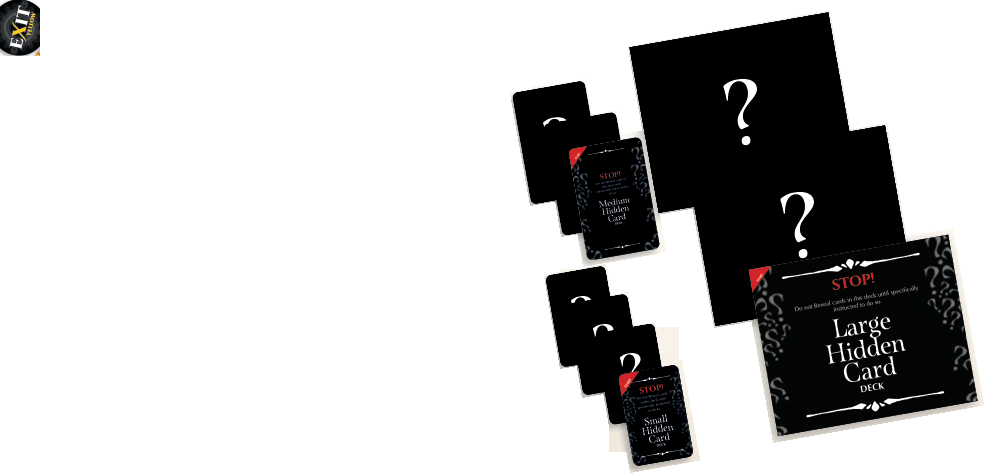
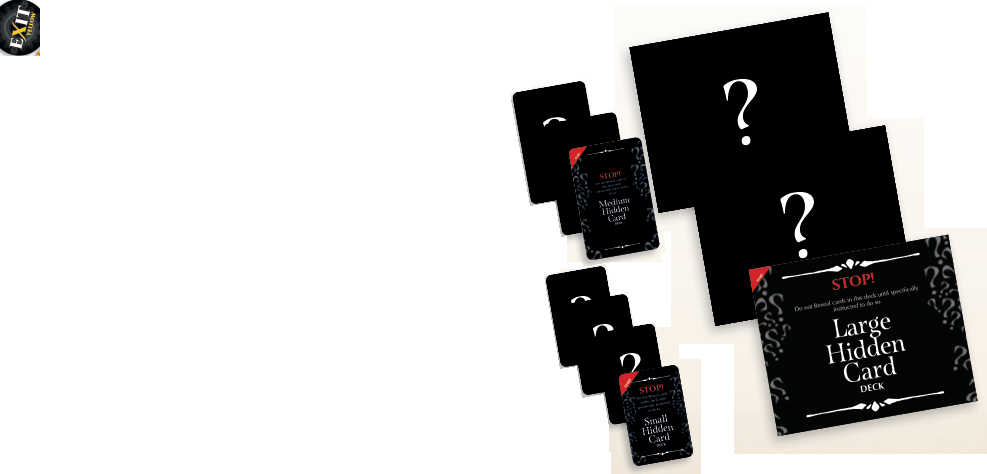
fix: remove residual card backings on page 6

diff --git a/scripts/build_page_006_card_overlay.py b/scripts/build_page_006_card_overlay.py
@@ -1,8 +1,9 @@
 """Build the page 6 English fidelity patch from the source PDF.
 
 This restores PDF-rendered card pixels over the viewer's imperfect image/text
-recomposition. The mask is constrained to embedded image placements and known
-card-label blocks; it must not be generalized to other pages without a new QA.
+recomposition. The mask is constrained to embedded image placements, audited
+card-label blocks, and five confirmed vector backings; do not generalize it to
+other pages without a new visual audit.
 """
 
 from __future__ import annotations
@@ -27,6 +28,19 @@ SIDECAR_PATH = PAGE_DIR / "fidelity_overlays.json"
 # excluded by the maximum rectangle area.
 CARD_REGION_PT = (545.0, 185.0, 795.0, 420.0)
 MAX_IMAGE_AREA_PT2 = 16_000.0
+# White-filled vector backings left visible in the extracted background even
+# though the source PDF's final composition covers them with card artwork.
+# Keep these two confirmed paths local to this audited card group.
+CARD_VECTOR_BACKING_BBOXES_PT = (
+    (586.34, 253.64, 630.42, 313.20),
+    (607.79, 360.89, 649.12, 414.64),
+)
+CARD_DARK_BACKING_BBOXES_PT = (
+    (609.00, 191.10, 728.90, 298.00),
+    (636.20, 245.30, 756.10, 352.20),
+    (666.40, 298.00, 786.30, 404.90),
+)
+CARD_DARK_FILL = (0.13669031858444214, 0.12195010483264923, 0.1252918243408203)
 PATCHED_TEXT_BLOCK_IDS = {
     "block_10", "block_94", "block_95", "block_96", "block_98",
     "block_235", "block_239", "block_243", "block_250", "block_254",
@@ -76,6 +90,43 @@ def main() -> None:
             ]
             draw.polygon(corners, fill=255)
             placements += 1
+
+    vector_backings = []
+    for drawing in page.get_drawings():
+        fill = drawing.get("fill")
+        rect = drawing["rect"]
+        if fill is None or not all(abs(channel - 1.0) < 1e-6 for channel in fill):
+            continue
+        for expected in CARD_VECTOR_BACKING_BBOXES_PT:
+            if all(abs(actual - target) <= 0.05 for actual, target in zip(rect, expected)):
+                draw.rectangle(tuple(value * scale for value in expected), fill=255)
+                vector_backings.append(expected)
+
+    if len(vector_backings) != len(CARD_VECTOR_BACKING_BBOXES_PT):
+        raise ValueError(
+            f"Expected {len(CARD_VECTOR_BACKING_BBOXES_PT)} white vector backings, "
+            f"found {len(vector_backings)}"
+        )
+
+    dark_backings = []
+    for drawing in page.get_drawings():
+        fill = drawing.get("fill")
+        rect = drawing["rect"]
+        if fill is None or not all(
+            abs(channel - target) < 1e-5
+            for channel, target in zip(fill, CARD_DARK_FILL)
+        ):
+            continue
+        for expected in CARD_DARK_BACKING_BBOXES_PT:
+            if all(abs(actual - target) <= 0.05 for actual, target in zip(rect, expected)):
+                draw.rectangle(tuple(value * scale for value in expected), fill=255)
+                dark_backings.append(expected)
+
+    if len(dark_backings) != len(CARD_DARK_BACKING_BBOXES_PT):
+        raise ValueError(
+            f"Expected {len(CARD_DARK_BACKING_BBOXES_PT)} dark card backings, "
+            f"found {len(dark_backings)}"
+        )
 
     text_blocks = 0
     for block in page_data["blocks"]:
@@ -130,7 +181,9 @@ def main() -> None:
     )
     print(
         f"Wrote {OVERLAY_PATH} ({overlay.width}x{overlay.height}) and "
-        f"{SIDECAR_PATH}; PDF placements={placements}, text blocks={text_blocks}, "
+        f"{SIDECAR_PATH}; PDF placements={placements}, "
+        f"vector backings={len(vector_backings)}, "
+        f"dark backings={len(dark_backings)}, text blocks={text_blocks}, "
         f"bbox_pt={bbox_pt}"
     )
 

diff --git a/docs/project-progress/2026-10-01-page6-fullpage-visual-audit.md b/docs/project-progress/2026-10-01-page6-fullpage-visual-audit.md
@@ -1,0 +1,48 @@
+# Auditoria visual integral inglesa: página 6
+
+- **Status:** concluída em 2026-10-01; a página inteira e o patch de cartas foram comparados com o PDF em zoom de leitura.
+- **Data:** 2026-10-01.
+- **Ponto de partida:** checkpoint local `134c37d` (`fix: restore page 7 component list fidelity`), branch `fix/pixel-render/overflow`, cinco commits à frente do remoto; sem push. Páginas 5 e 7 estão marcadas `visual-reviewed`.
+- **Registro anterior relacionado:** [`2026-09-30-next-visual-sample-pages-6-101.md`](2026-09-30-next-visual-sample-pages-6-101.md), que documenta a falha das cartas Hidden Card, as tentativas descartadas e a camada de reparo page-local.
+- **Seleção:** página 6 tem 322 spans, sete ocorrências Identity-H, 40 candidatos `ZapfDingbatsStd`, 149 imagens/placements (144 conteúdos) e 30 blocos de estilo misto. Sinais automáticos para revisão, não defeitos presumidos.
+
+## Objetivo
+
+Completar a fidelidade da página física 6 em inglês no app, observando a página inteira e escala de leitura; verificar a região corrigida, as áreas adjacentes, tipografia, alinhamentos, imagens, folio e margens. Não traduzir, não alterar drafts e não presumir que o patch da página 6 se aplique a outras composições.
+
+## Método planejado
+
+1. Reconsultar `CONTINUE-HERE.md`, as rules 00/06/07/13, a referência PDF do projeto e as skills de fidelidade/layout; ler o registro amostral 6/101.
+2. Renderizar/reutilizar o render da página física 6 do PDF original e abrir a página 6 em EN com Admin desligado no browser local autorizado.
+3. Comparar primeiro a página inteira em Fit-to-Screen e depois regiões em zoom de leitura, mantendo escalas comparáveis.
+4. Conferir o overlay Hidden Card em contexto, textos e headings fora do overlay, os spans Identity-H/PUA e caixas/símbolos filtrados, quebras, colunas, margens e fólio.
+5. Cruzar toda suspeita com o PDF rasterizado, background final e JSON/span; distinguir erro visual do que está corretamente impresso ou rasterizado.
+6. Se um defeito novo for comprovado, registrar causa e plano antes da alteração; corrigir só a página/região confirmada e repetir a comparação. Atualizar matriz apenas após QA suficiente.
+
+## Critério de encerramento
+
+Classificar a página como `visual-reviewed` somente após comparação de página inteira e regiões relevantes contra o PDF. Se permanecer limitação (p.ex. conteúdo textual intrínseco em arte não traduzível), registrá-la claramente e deixar o status/ponto de expansão de tradução apropriado. Build/lint se houver alteração de código; sem abrir editor ou storage de rascunhos.
+
+## Achado visual confirmado — artefatos de contorno no grupo de cartas
+
+- O primeiro passe em EN, Admin desligado e escala de 100–175% mostra as composições das Hidden Cards majoritariamente restauradas, mas também deixa visíveis retângulos/cartas brancos contornados sob/ao redor dos cards pretos. Esses contornos extras não aparecem no render-fonte `tmp/book-fidelity-audit/source-renders/page-006.png` nem no recorte `source-page-006-card-region.png`.
+- O recorte `previous-background-page-006-card-region.png` confirma os contornos na própria `background.webp`: eles são remanescentes do processo de extração do fundo e não imagens corretas da página. O overlay de produção (`fidelity-overlay-hidden-cards.png`) restaura pixels do PDF sobre 19 placements de imagem e bboxes de texto confirmadas, mas sua máscara transparente deixa partes dos contornos do background aparecerem. Portanto, a correção anterior foi incompleta mesmo que os pixels dos cards tenham sido restaurados.
+- **Causa ainda em investigação:** determinar se os contornos vieram de paths vetoriais, máscaras/imagens ou da remoção parcial de Forms XObject. Não assumir o tipo só pela aparência; cruzar o crop, `get_bboxlog()`/`get_drawings()` e o código de extração de fundo.
+- `Page.get_drawings()` identificou dois paths brancos (bboxes `[586.34,253.64,630.42,313.20]` e `[607.79,360.89,649.12,414.64]`) alinhados com as sobras de moldura. Eles estão além do limite direito do bloco de prosa `block_108` (x=567.5 pt), nas silhuetas das cartas. Isso aponta para paths de backing/máscara que o extrator mantém no background, e não um problema de tipografia.
+- **Plano antes da implementação:** acrescentar somente esses dois bboxes vetoriais à máscara que já restaura imagens/textos dos cards, usando os pixels do render-fonte nas mesmas coordenadas. O patch fica limitado à área, e o render original naquela região contém composição correta; as bboxes não cobrem o parágrafo. Validar que as linhas/card labels HTML associados já são substituídos pela mesma camada e não aparecem duplicados. Não mudar renderer global, filtros Zapf/Identity-H, fontes nem dados de tradução. Conferir screenshot em contexto e reverter se afetar vizinhos.
+- **Aceitação:** nenhum retângulo/contorno branco extra comparado ao PDF; todos os cards, seus rótulos/versos e interrogações corretos; texto “Hidden Card Decks” e parágrafo vizinho legíveis uma vez; demais itens e margens sem deslocamento/corte; comparação de página inteira e zoom de leitura.
+
+## Correção intermediária e refinamento da causa
+
+- Depois de adicionar os dois paths brancos à máscara, o primeiro recarregamento ainda mostrou a moldura branca maior ao redor de dois cards. O navegador mantinha o PNG anterior em cache durante a navegação interna; foi necessário recarregar a página para confirmar o artefato restante. Isso foi registrado como correção insuficiente, não como QA aprovado.
+- As bboxes remanescentes coincidem com três paths de backing escuros do PDF: `[609.00,191.10,728.90,298.00]`, `[636.20,245.30,756.10,352.20]` e `[666.40,298.00,786.30,404.90]`. A camada de extração deixa a orla/backing visível fora dos 19 retângulos transformados das imagens. Os três bboxes começam à direita do fim de `block_108` (x=567.5 pt) e não cobrem a coluna de prosa.
+- **Plano revisado antes da segunda alteração:** incluir essas três geometrias exatas na mesma máscara local (além dos dois paths brancos já identificados), copiando os pixels do render-fonte para cada bbox. Fazer o gerador falhar se algum bbox ou estilo do path não corresponder, para não generalizar coordenadas inválidas. Recarregar a página após regenerar o asset e comparar de novo; se aparecer moldura, texto duplicado ou dano à vizinhança, não aprovar nem marcar a linha visualmente revisada.
+
+## Execução final e resultado
+
+- O gerador `scripts/build_page_006_card_overlay.py` agora valida e acrescenta à máscara os 19 placements de imagem, as 16 unidades textuais já confirmadas, dois paths de backing brancos e três paths escuros com bboxes/cores esperadas. A seleção de cada path falha explicitamente se a geometria ou fill não corresponder; a máscara continua específica da página 6.
+- A primeira alteração (só dois paths brancos) não resolveu a moldura maior; isso foi detectado após uma recarga real do app e documentado antes do segundo ajuste. Com os três paths escuros incluídos e o PNG efetivamente recarregado, as molduras brancas extras desapareceram.
+- **QA visual completa:** a página 6 em EN/Admin desligado foi comparada com o render físico completo `tmp/book-fidelity-audit/source-renders/page-006.png`, e com `source-page-006-card-region.png`, em 100% (página inteira), 175–225% (cartas e texto) e 200% (região inferior). Conferidos textos/headings/itálicos nas colunas, fichas e tokens, cards Hidden, “Red Reveal Decoder”, standups, personagem, margens e fólio 6. Não ficou divergência visual confirmada fora da limitação editorial intrínseca às labels rasterizadas dentro das cartas.
+- As interrogações e rótulos impressos das cartas aparecem uma vez; não há backings brancos extras; o parágrafo `Hidden Card Decks` segue legível sem corte nem duplicação. O overlay continua EN/não-Admin; esta QA não valida tradução PT/Admin e não abriu o editor nem leu rascunhos.
+- **Verificação:** `python scripts/build_page_006_card_overlay.py` concluiu com 19 placements, 2 backings brancos, 3 backings escuros e 16 blocos textuais. `git diff --check` passou (avisos normais de LF→CRLF). Não houve mudança de React/TypeScript neste ajuste, então build/lint do frontend não foram repetidos; o build/lint anterior da página 7 continua aprovado.
+- **Conclusão para a matriz:** página 6 passa a `visual-reviewed`. Lição reutilizável: corrigir só placements de imagem pode deixar geometrias vetoriais que os cobrem/servem de backing; revisar `get_drawings()` e sequência de pintura, identificar paths pela geometria/estilo, e comparar após uma recarga que descarte cache. Isso é um critério de investigação, não autorização para copiar bboxes/patches às outras páginas.

diff --git a/docs/project-progress/README.md b/docs/project-progress/README.md
@@ -9,6 +9,7 @@ This folder records work by task, including the goal, method, files changed, evi
 - [2026-09-30 — Amostra visual e patch inglês: páginas 6 e 101](2026-09-30-next-visual-sample-pages-6-101.md): restaurar a composição das cartas da página 6 por máscaras locais derivadas do PDF; confirmar no app e registrar que a inspeção estrutural da página 101 não é aprovação linha a linha.
 - [2026-09-30 — Auditoria visual inglesa: página 5](2026-09-30-next-visual-audit-page-5.md): comparação do quadro inteiro e de regiões ampliadas; nenhum defeito visual confirmado e nenhuma correção generalizada aplicada.
 - [2026-09-30–10-01 — Auditoria visual inglesa: página 7](2026-09-30-next-visual-audit-page-7.md): corrigir uma linha HTML duplicada sobre o background e recompor 20 caixas Zapf Dingbats localmente, com QA visual e sem mudança global de fonte.
+- [2026-10-01 — Auditoria visual integral inglesa: página 6](2026-10-01-page6-fullpage-visual-audit.md): localizar e remover cinco backings residuais que deixavam molduras brancas sobre os cards; validar a página toda sem reaplicar o patch fora do escopo.
 - [2026-09-30 — Feedback visual e auditoria das páginas 4/13/15](2026-09-30-feedback-audit-pages-4-13-15.md): implementar small caps em headings, restaurar texto vetorial dos cards e ocultar overlays duplicados na figura composta; build passou; aguarda validação visual e registra a colisão não confirmada da página 13.
 - [2026-09-30 — Triagem estendida por amostragem](2026-09-30-extended-fidelity-sample.md): triagem read-only das páginas 3, 6, 15, 24 e 101; confirmou conteúdo legítimo em cartões, encontrou um possível falso positivo que oculta o marcador da página 15 e delimitou as próximas capturas do app.
 - [2026-09-30 — Auditoria visual das páginas 4/13 e zoom inicial](2026-09-30-page4-13-visual-review-and-initial-zoom.md): verificar candidatos a fantasma nos componentes da página 4, confirmar os raios da página 13 e iniciar o viewer em 200% mantendo Fit to Screen em 100%.

diff --git a/.agents/rules/07-fantasmas-e-artefatos-duplicados.md b/.agents/rules/07-fantasmas-e-artefatos-duplicados.md
@@ -62,3 +62,4 @@ Na página 6, as imagens e máscaras dos baralhos aparecem como várias colocaç
 - A página 7 confirmou outra consequência da extração parcial de Form XObjects: a linha “Hidden Decks included in the itemized lists.” sobreviveu no `background.webp` e também foi pintada pelo HTML. A correção foi marcar só `line_32_1` com `rasterizedDuplicate: true`; não esconder o bloco todo nem remover a chave editável. Antes de aplicar esse marcador em outra página, compare a linha do PDF, a região exata do background e a saída do app.
 - A lista da mesma página tinha 20 spans `U+274F` da Zapf Dingbats que o renderer global suprime, enquanto o background não continha as caixas. Elas foram restauradas por SVG page-local gerado de bboxes verificadas (`scripts/build_page_007_checkbox_overlay.py`), sem alterar o mapeamento global da fonte. O SVG é decorativo, transparente e não intercepta cliques; não contém conteúdo traduzível.
 - **Critério para casos futuros:** para cada glifo filtrado, determinar se os pixels correspondentes já existem no fundo. Se existirem, não os desenhe outra vez; se não existirem, só restaure a forma depois de confirmar o símbolo no PDF e o bbox, com escopo restrito à página. `PUA`/font-risk na matriz é um sinal para inspecionar, nunca uma ordem para reativar ou substituir uma fonte globalmente.
+- A segunda passagem de página inteira na página 6 encontrou cinco formas de backing/máscara ainda visíveis fora dos placements de imagem: dois paths brancos e três paths escuros. O overlay inicial só cobria imagens/textos e deixava molduras. `get_drawings()` e bboxes/fills confirmados localizaram os paths; adicioná-los ao mask da página removeu o resíduo sem tocar na coluna vizinha. Portanto, inspecionar paths de desenho e a ordem de pintura além de `get_images()`; comparar após recarregar o asset para evitar aprovar uma versão em cache. Não generalizar geometrias/cores da página 6.

diff --git a/.agents/skills/visual-fidelity-qa/SKILL.md b/.agents/skills/visual-fidelity-qa/SKILL.md
@@ -53,6 +53,9 @@ Este documento serve como um log evolutivo de problemas de renderização encont
 ## 7. Duplicação raster/HTML e glifos suprimidos (Ex: Página 7)
 Um texto que sobrevive dentro de um Form XObject pode aparecer no background e no HTML ao mesmo tempo. Confirme os mesmos pixels na bbox antes de marcar somente a linha HTML com `rasterizedDuplicate`; preserve o bloco/override para edição. Para pictogramas suprimidos pelo renderer, confira se o background os contém. A página 7 precisou restaurar 20 caixas `U+274F` com um SVG transparente baseado nos bboxes auditados; a camada é page-local, não recebe eventos e não autoriza mudar o mapeamento global Zapf. Compare forma, posição e vizinhança ampliadas e depois a página inteira.
 
+### Revisão de overlay mascarado: artefatos fora dos placements de imagem (Ex: página 6)
+Uma máscara baseada apenas em `get_image_rects()` pode restaurar as imagens e ainda deixar paths/backings do PDF visíveis ao redor delas. Se o fundo mostrar formas que não existem no PDF final, compare `get_drawings()`/sequência de pintura além da lista de imagens; acrescente somente as geometrias e estilos confirmados ao overlay local. Confira texto vizinho para evitar cobri-lo e recarregue a página/asset antes da aprovação para excluir cache antigo.
+
 ## Fluxo Base de Revisão (QA Diário)
 Sempre que resolvermos um bug visual específico:
 1. Identificar se é uma anomalia isolada de 1 página, ou uma quebra sistêmica (regra de fonte/layout).
